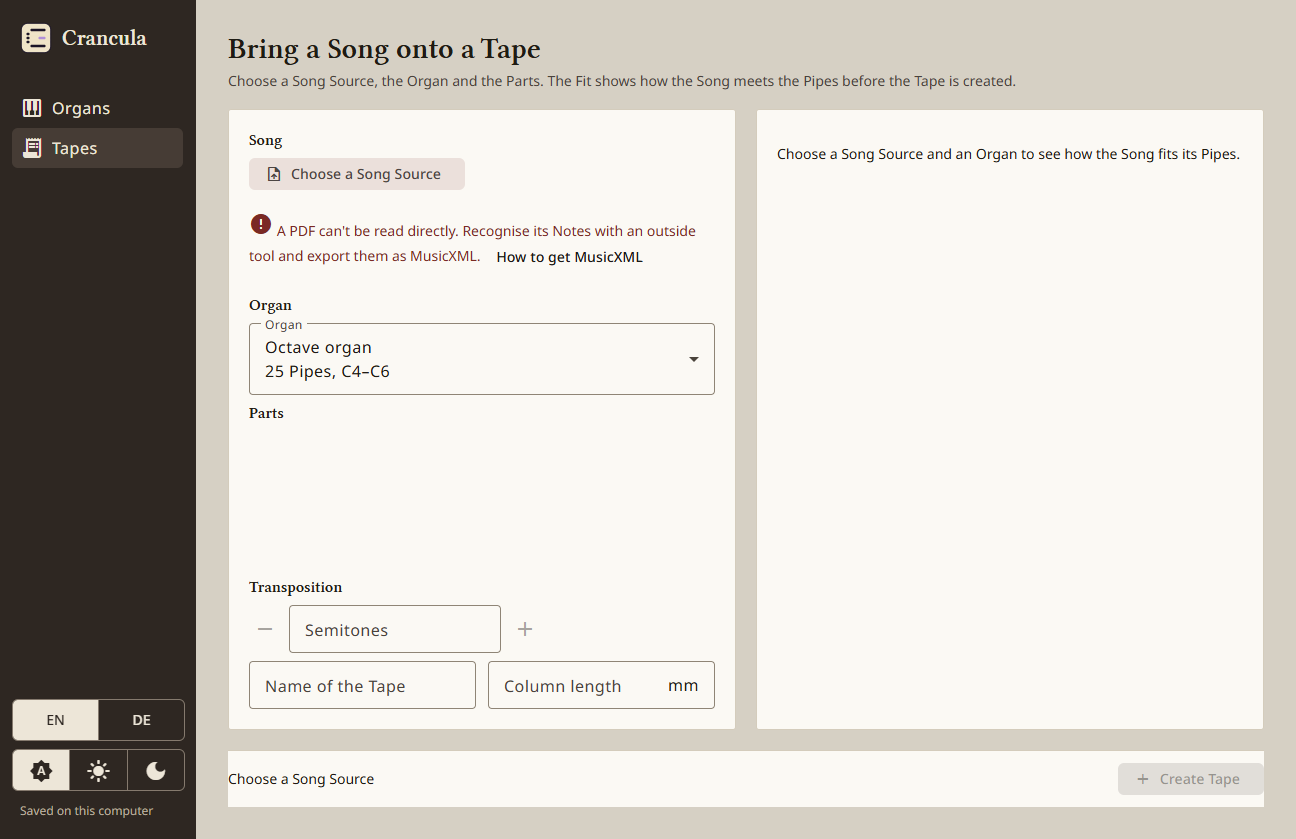
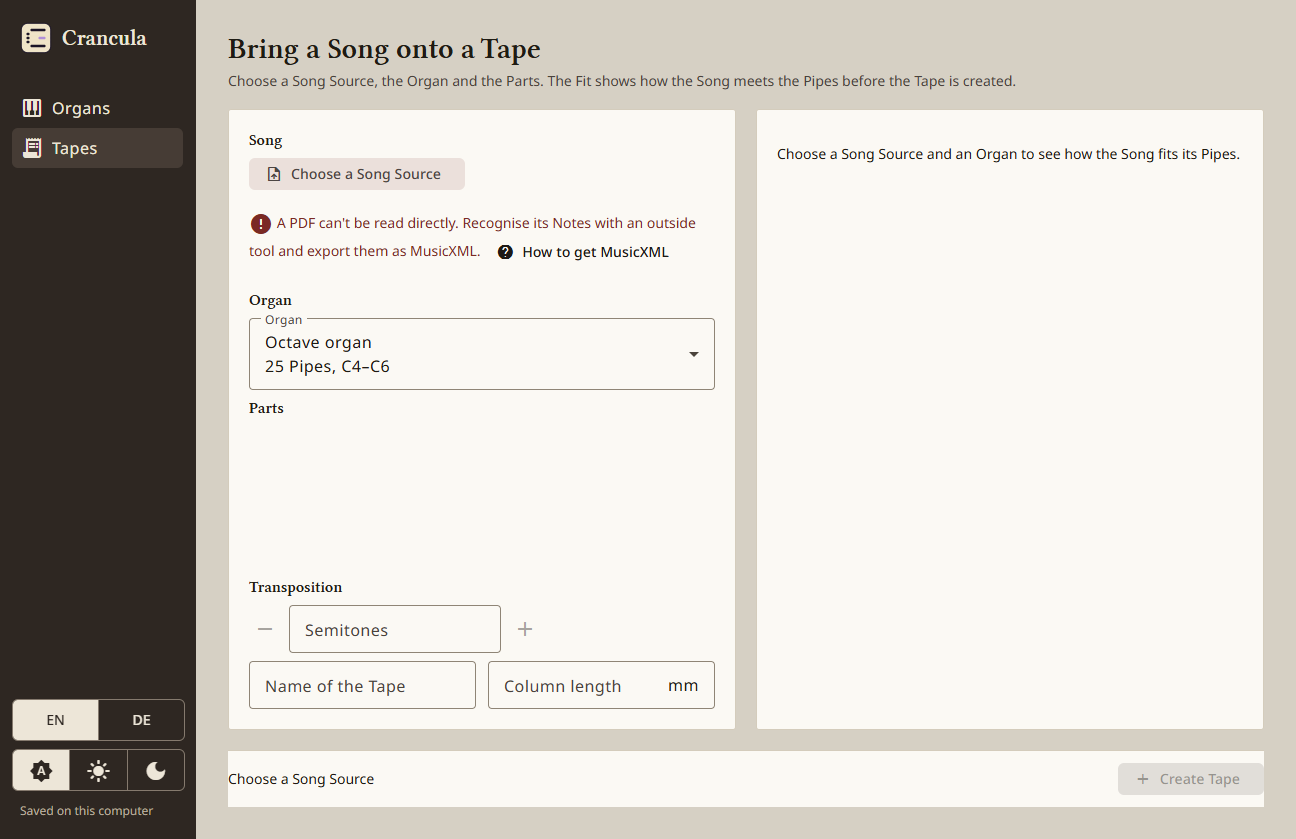
docs(tape): record the UX review fixes and file the open findings (#167)
Refresh the import screens 20 and 22 that show the fixed findings.

Changed region(s): [[0.1852, 0.2479, 0.5556, 0.3099], [0.1852, 0.3409, 0.3086, 0.4958]]

diff --git a/specs/010-bring-scores-onto-a-tape/ux-review.md b/specs/010-bring-scores-onto-a-tape/ux-review.md
@@ -7,12 +7,12 @@ Screens (`documentation/design/screens/current/`, 1280x800, English and German):
 | 4  | 4  | 4  | 4  | 4  | 4  | 3  | 4  | 4  | 5   | 40/50 |
 
 ## Findings
-1. **[sev 2] H7 · 21-tape-view-metre(-german)** — The Tape details label is "Metre" in English but "Takt und Tonart" in German, while the value also carries the upbeat. The row is also tight against the "Column length" row below it. Fix: agree one label per language with the dictionary (term "Metre"), and add the same row gap as the other details rows. Open (a term question, needs the user).
-2. **[sev 2] H8 · 22-tape-import-pdf-rejected** — "How to get MusicXML" is plain dark text with no button outline or icon, so it does not read as a link or button next to the red message; in German it drops to its own line. Fix: give it a text-button treatment (icon `help` or underline). Open.
-3. **[sev 2] H5 · 22-tape-import-pdf-rejected** — The rejection message sits above the unchanged Organ/Parts/Transposition form, which stays visible but empty (large blank Parts area). Fix: collapse the empty Parts block while no Song is chosen. Open, pre-existing layout.
-4. **[sev 3] H3 · 21-tape-view-metre-german** — At 1280 px in German the header text of the Tape squeezes into a narrow column and the toolbar overflows: "Export für den Plotter" is clipped and a horizontal scrollbar appears. Not caused by this slice (Record button from #165), but the Metre row adds nothing to it. Fix: wrap the toolbar or shorten the German labels. Open, file as its own issue.
-5. **[sev 1] H7 · 22-tape-import-pdf-rejected** — The error icon sits above the first text line instead of centred on it. Open, cosmetic.
-6. **[sev 1] H1 · 20-tape-import-score** — The Song facts line ("2 Parts, 8 Notes  3/4, G major, upbeat 1/4") has no separator between Notes count and Metre. Fix: add a middle dot or a gap. Open, cosmetic.
+1. **[sev 2] H7 · 21-tape-view-metre(-german)** — The Tape details label is "Metre" in English but "Takt und Tonart" in German, while the value also carries the upbeat. The row is also tight against the "Column length" row below it. Fixed: the label difference is intended (dictionary term "Metre"). The row gap already matches the other details rows (measured: 5 px between the text of every pair of rows, Metre to Column length included), so no change.
+2. **[sev 2] H8 · 22-tape-import-pdf-rejected** — "How to get MusicXML" is plain dark text with no button outline or icon, so it does not read as a link or button next to the red message; in German it drops to its own line. Fixed: a text button with a `help` icon, in the hint and in the rejection.
+3. **[sev 2] H5 · 22-tape-import-pdf-rejected** — The rejection message sits above the unchanged Organ/Parts/Transposition form, which stays visible but empty (large blank Parts area). → #178
+4. **[sev 3] H3 · 21-tape-view-metre-german** — At 1280 px in German the header text of the Tape squeezes into a narrow column and the toolbar overflows: "Export für den Plotter" is clipped and a horizontal scrollbar appears. Not caused by this slice (Record button from #165), but the Metre row adds nothing to it. → #177
+5. **[sev 1] H7 · 22-tape-import-pdf-rejected** — The error icon sits above the first text line instead of centred on it. Fixed: the error icon is centred on the first line.
+6. **[sev 1] H1 · 20-tape-import-score** — The Song facts line ("2 Parts, 8 Notes  3/4, G major, upbeat 1/4") has no separator between Notes count and Metre. Fixed: a middle dot separates the Notes count from the metre.
 
 ## Strengths
 - The import screen shows Parts with checkboxes and Note counts and the Metre in one line, in both languages, without overflow.
@@ -21,4 +21,4 @@ Screens (`documentation/design/screens/current/`, 1280x800, English and German):
 - The Tape details keep the Metre next to the Organ, where the owner looks for facts of the Tape.
 
 ## Fixed in this review
-None: all findings need a wording decision or larger layout work.
+1, 2, 5 and 6 (see the findings). 3 and 4 are filed: #178 and #177.
